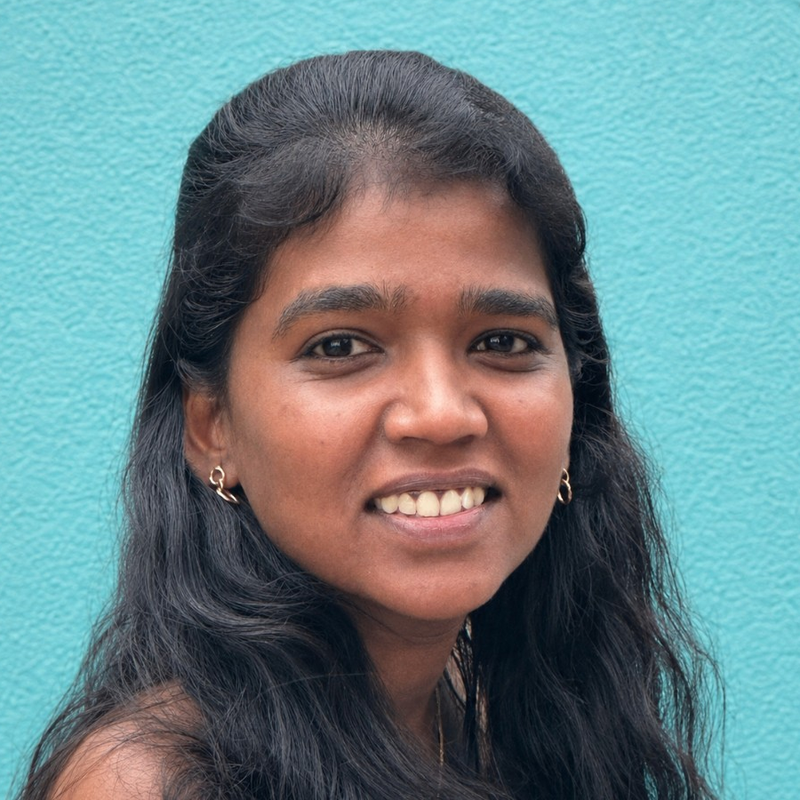
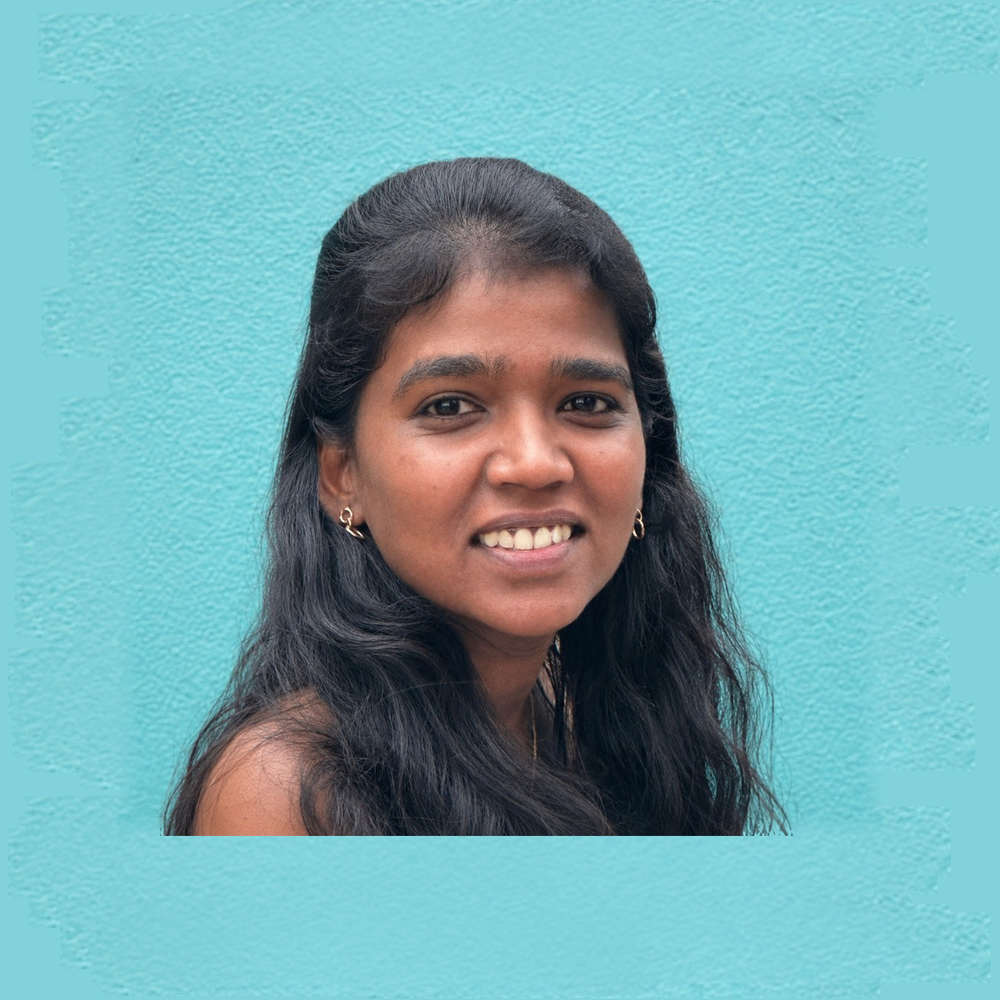
Show the teal wall around the portrait and grid the features.
The circle was cutting the wall off at the bottom, and the two features read better side by side.

diff --git a/index.html b/index.html
@@ -51,10 +51,16 @@
       <p class="lead">I am a computational chemist and a Ph.D. student in theory and computational chemistry at the University of California, Los Angeles. In the Lindert Lab I work on protein structure prediction and design, combining experiments, deep learning, and Rosetta-based modeling.</p>
       <p>Doctoral research began in 2023 at Ohio State and continued at UCLA from 2025. I expect to finish the Ph.D. in 2027. I also have an M.S. in physical chemistry from Ohio State (2025) and a B.S.–M.S. in chemistry, with a minor in physics, from IISER Thiruvananthapuram (2022).</p>
       <h2>Featured</h2>
-      <ul class="related">
-        <li><a href="https://rosettacommons.org/2026/11/12/integrating-ion-mobility-data-with-rosetta-and-alphafold-resolves-complex-structural-assembly-challenges/">Integrating ion mobility data with Rosetta and AlphaFold</a>, Rosetta Commons (2026)</li>
-        <li><a href="https://www.mbi.ucla.edu/fowler-fellows">2026–2027 Fowler Fellow</a>, Molecular Biology Institute, UCLA</li>
-      </ul>
+      <div class="feature-grid">
+        <a class="feature" href="https://rosettacommons.org/2026/11/12/integrating-ion-mobility-data-with-rosetta-and-alphafold-resolves-complex-structural-assembly-challenges/">
+          <span>Rosetta Commons · 2026</span>
+          <strong>Integrating ion mobility data with Rosetta and AlphaFold</strong>
+        </a>
+        <a class="feature" href="https://www.mbi.ucla.edu/fowler-fellows">
+          <span>Molecular Biology Institute · UCLA</span>
+          <strong>2026–2027 Fowler Fellow</strong>
+        </a>
+      </div>
       <h2>Recent highlights</h2>
       <ul class="related">
         <li><a href="https://doi.org/10.1021/acs.analchem.6c01893">Integrating ion mobility mass spectrometry with AlphaFold and Rosetta</a>, <em>Analytical Chemistry</em> (2026)</li>

diff --git a/styles.css b/styles.css
@@ -205,6 +205,46 @@ a:hover { color: var(--link-hover); }
 
 .related li { margin: 0.3rem 0; }
 
+.feature-grid {
+  display: grid;
+  grid-template-columns: 1fr 1fr;
+  gap: 0.75rem;
+  margin-top: 0.7rem;
+}
+
+.feature {
+  display: flex;
+  flex-direction: column;
+  gap: 0.4rem;
+  padding: 0.95rem 1rem 1rem;
+  border: 1px solid var(--line);
+  border-top: 3px solid #7ec8d4;
+  border-radius: 2px;
+  background: #fff;
+  color: var(--heading);
+  text-decoration: none;
+}
+
+.feature:hover { border-color: var(--link); }
+
+.feature span {
+  color: var(--link-hover);
+  font-size: 0.72rem;
+  font-weight: 600;
+  letter-spacing: 0.06em;
+  text-transform: uppercase;
+}
+
+.feature strong {
+  font-size: 1.02rem;
+  font-weight: 600;
+  line-height: 1.35;
+}
+
+@media (max-width: 700px) {
+  .feature-grid { grid-template-columns: 1fr; }
+}
+
 .papers { list-style: none; margin: 0; padding: 0; }
 
 .papers li {
